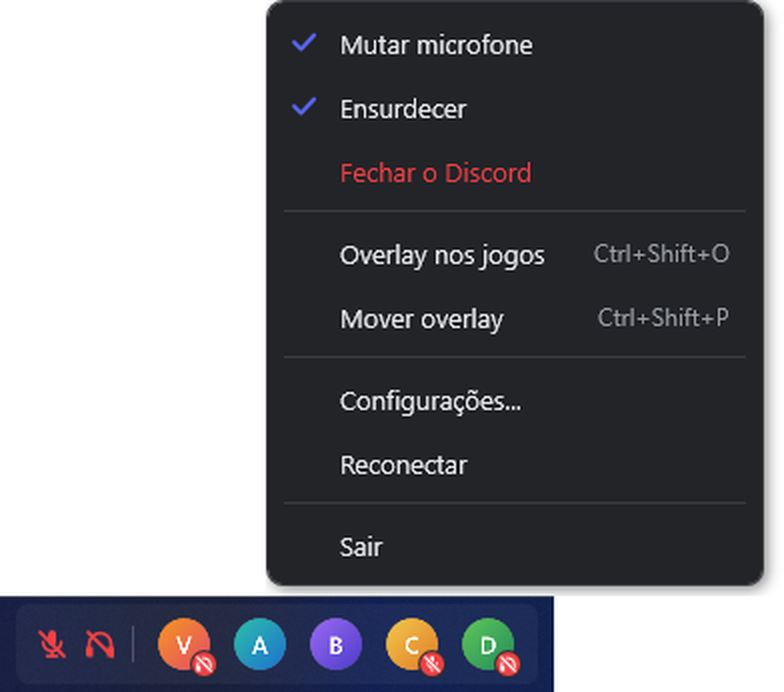
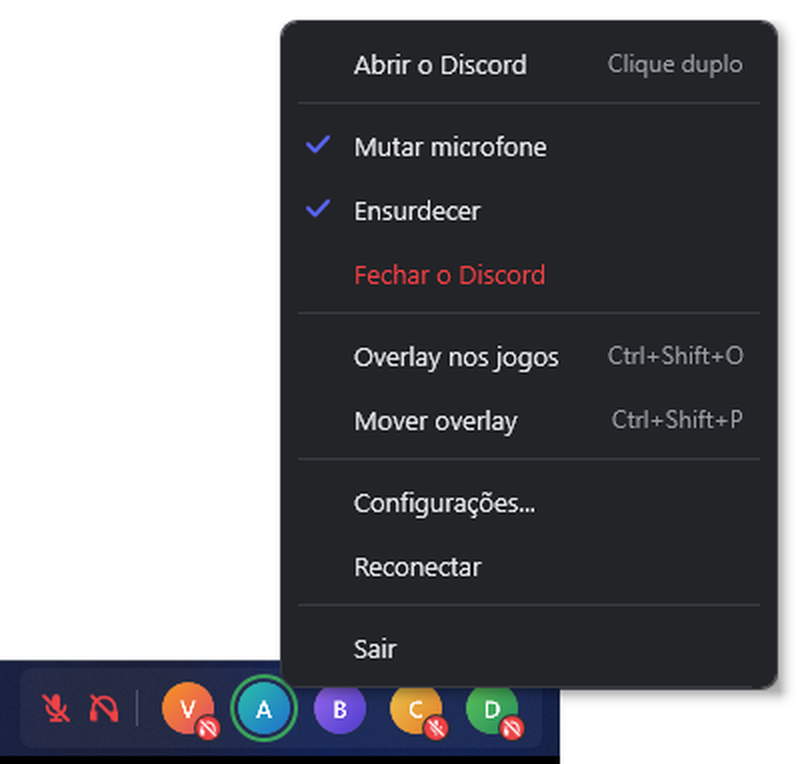
README: print do menu com "Abrir o Discord"
Claude-Session: https://claude.ai/code/session_01E8H2GuRs1xmnJZ1U3mJ16F

diff --git a/README.md b/README.md
@@ -100,7 +100,7 @@ tela, cada um abre na sua). Com o Discord fechado e o widget visível fora de ca
 mostra "Discord fechado".
 
 <div align="center">
-<img src="docs/images/menu.png" width="386" alt="Menu do botão direito: mutar microfone, ensurdecer, fechar o Discord, overlay, configurações, reconectar e sair" />
+<img src="docs/images/menu.png" width="394" alt="Menu do botão direito: abrir o Discord, mutar microfone, ensurdecer, fechar o Discord, overlay, configurações, reconectar e sair" />
 </div>
 
 > **Atualizando da 1.0.3 ou anterior:** mutar e ensurdecer pedem uma permissão nova ao
